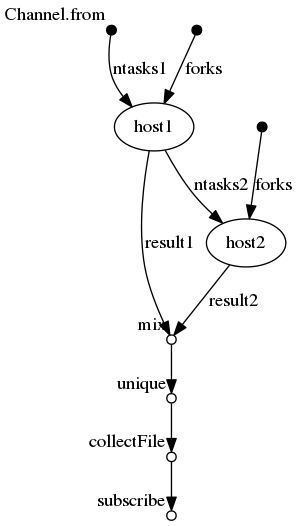
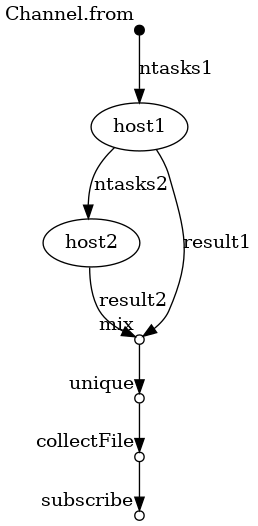
homogonize nf variable names

Changed region(s): [[0.0, 0.0, 0.9922, 1.0], [0.6822, 0.2129, 0.7442, 0.2738]]

diff --git a/src/nf/dag_nf_hosts_workflow.html b/src/nf/dag_nf_hosts_workflow.html
@@ -106,25 +106,21 @@
 elements: {
 nodes: [
 { data: { id: 'p0', label: 'Channel.from'}, classes: 'ORIGIN' },
-{ data: { id: 'p1'}, classes: 'ORIGIN' },
-{ data: { id: 'p2', label: 'host1'}, classes: 'PROCESS' },
-{ data: { id: 'p3'}, classes: 'ORIGIN' },
-{ data: { id: 'p4', label: 'host2'}, classes: 'PROCESS' },
-{ data: { id: 'p5', label: 'mix'}, classes: 'OPERATOR' },
-{ data: { id: 'p6', label: 'unique'}, classes: 'OPERATOR' },
-{ data: { id: 'p7', label: 'collectFile'}, classes: 'OPERATOR' },
-{ data: { id: 'p8', label: 'subscribe'}, classes: 'OPERATOR' },
+{ data: { id: 'p1', label: 'host1'}, classes: 'PROCESS' },
+{ data: { id: 'p2', label: 'host2'}, classes: 'PROCESS' },
+{ data: { id: 'p3', label: 'mix'}, classes: 'OPERATOR' },
+{ data: { id: 'p4', label: 'unique'}, classes: 'OPERATOR' },
+{ data: { id: 'p5', label: 'collectFile'}, classes: 'OPERATOR' },
+{ data: { id: 'p6', label: 'subscribe'}, classes: 'OPERATOR' },
 ],
 edges: [
-{ data: { source: 'p0', target: 'p2', label: 'ntasks1' } },
-{ data: { source: 'p1', target: 'p2', label: 'forks' } },
-{ data: { source: 'p2', target: 'p4', label: 'ntasks2' } },
-{ data: { source: 'p2', target: 'p5', label: 'result1' } },
-{ data: { source: 'p3', target: 'p4', label: 'forks' } },
-{ data: { source: 'p4', target: 'p5', label: 'result2' } },
+{ data: { source: 'p0', target: 'p1', label: 'ntasks1' } },
+{ data: { source: 'p1', target: 'p2', label: 'ntasks2' } },
+{ data: { source: 'p1', target: 'p3', label: 'result1' } },
+{ data: { source: 'p2', target: 'p3', label: 'result2' } },
+{ data: { source: 'p3', target: 'p4'} },
+{ data: { source: 'p4', target: 'p5'} },
 { data: { source: 'p5', target: 'p6'} },
-{ data: { source: 'p6', target: 'p7'} },
-{ data: { source: 'p7', target: 'p8'} },
 ],
 },
 

diff --git a/src/nf/README.md b/src/nf/README.md
@@ -15,7 +15,7 @@ We used a 1- and 2- process workflow scattered across n tasks, where n is increa
 The DAG of nextflow scripts can be obtained after an actual run of the pipeline with the `-with-dag` option added as below:
 
 ```
-$ nextflow run <nexflow script>  -with-dag <dag.png> <other options and flags>
+$ nextflow run host_workflow.nf -with-dag dag_nf_hosts_workflow.html #or, dag_nf_hosts_workflow.png to get the png directly 
 ``` 
 
 ## Running Nextflow code:
@@ -28,5 +28,4 @@ $ nextflow run host_workflow.nf -profile cluster --ntasks=<tasks> --forks=<forks
 $ 
 ```
 
-Notice that I still need to remove the `maxForks` directive from these scripts and replace it with `queueSize` as appropriate
 
